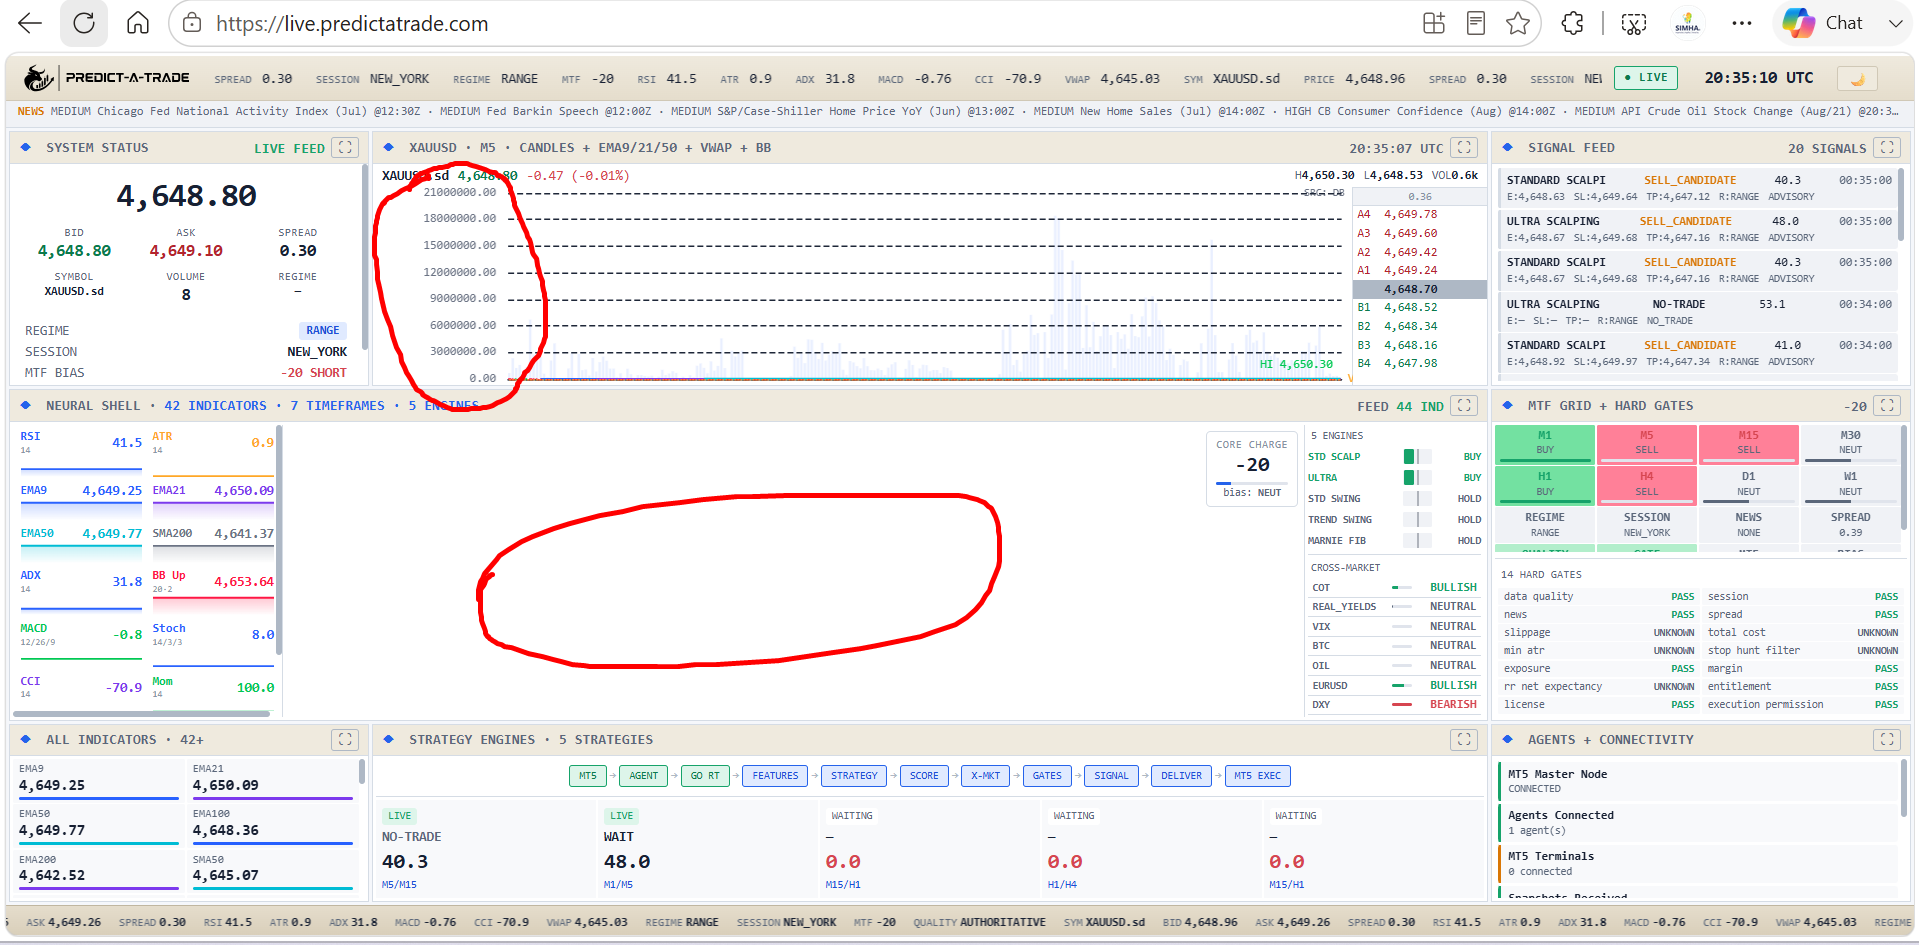
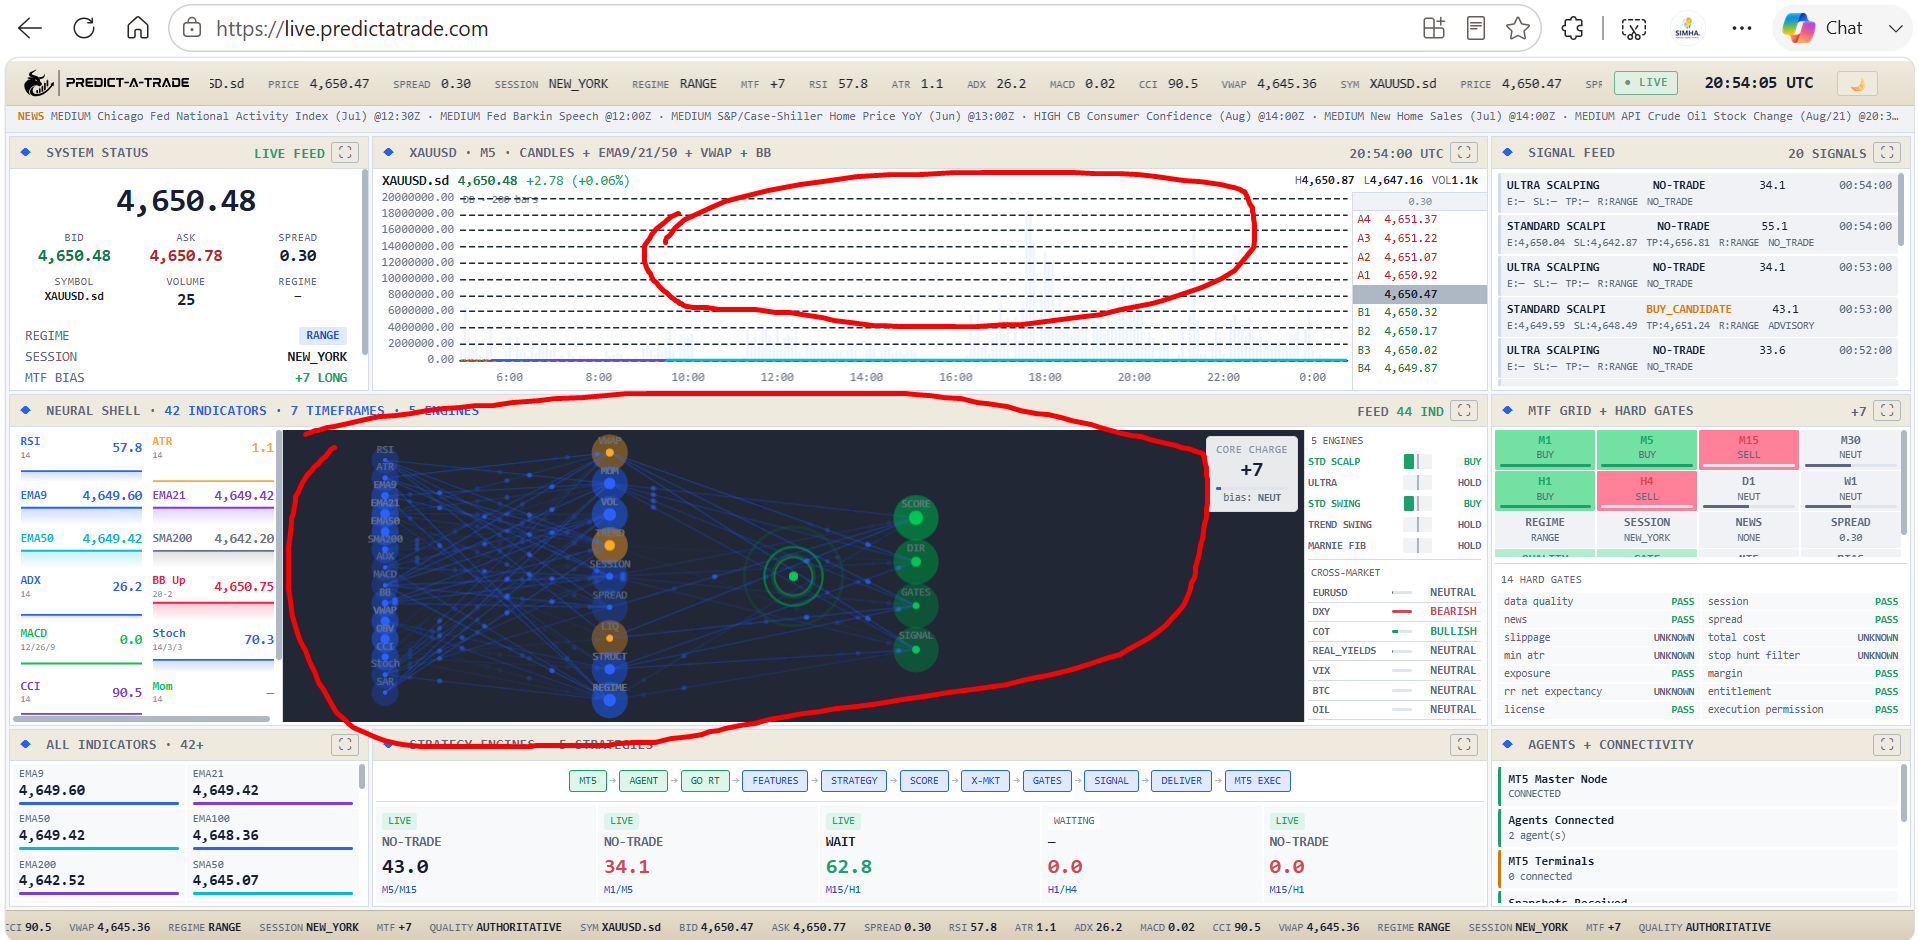
fix: 3 issues — chart expansion, layout, light mode chart bg
ISSUE 1: Top-left panel layout
- Grid columns narrowed (240→220, 280→260) for more chart space
- Chart (p-price) now spans rows 1-2 (double height)
- Neural shell moved to column 1, row 2 only

ISSUE 2: Chart fills empty space
- Removed DOM table (freed 90px width)
- Removed price-header-bar (freed vertical space)
- Price info (sym/price/hi/lo/vol) moved into panel header
- Chart container now fills entire panel body
- Grid left margin: 58→50px

ISSUE 3: Light mode chart dark background
- Grid lines: #1e2738 → rgba(128,128,128,0.15)
- Axis lines: #2a3548 → rgba(128,128,128,0.2)
- Axis labels: #6b7384 → rgba(128,128,128,0.6)
- Tooltip: darker bg with lighter text
- All chart colors now use rgba() which works in both dark and light modes

Service worker cache bumped v19→v20

diff --git a/live-dashboard/index.html b/live-dashboard/index.html
@@ -59,7 +59,7 @@ body.light{background:#f5f7fb;color:#172033}
 #newsStrip .news-label{color:var(--amber);font-weight:700}
 
 /* ═══ MAIN GRID ═══ */
-#main{display:grid;grid-template-columns:240px 1fr 280px;grid-template-rows:minmax(0,1fr) minmax(0,1.3fr) minmax(0,.7fr);gap:2px;padding:2px;overflow:hidden;background:var(--bg)}
+#main{display:grid;grid-template-columns:220px 1fr 260px;grid-template-rows:minmax(0,1.2fr) minmax(0,1.3fr) minmax(0,.6fr);gap:2px;padding:2px;overflow:hidden;background:var(--bg)}
 #modeBanner{grid-row:1}#header{grid-row:2}#newsStrip{grid-row:3}#main{grid-row:4}#footer{grid-row:5}
 
 /* ═══ PANEL ═══ */
@@ -71,9 +71,9 @@ body.light{background:#f5f7fb;color:#172033}
 
 /* ═══ GRID PLACEMENT ═══ */
 .p-account{grid-column:1;grid-row:1}
-.p-price{grid-column:2;grid-row:1}
+.p-price{grid-column:2;grid-row:1/span 2}
 .p-lifecycle{grid-column:3;grid-row:1}
-.p-neural{grid-column:1/span 2;grid-row:2}
+.p-neural{grid-column:1;grid-row:2}
 .p-resolution{grid-column:3;grid-row:2}
 .p-indicators{grid-column:1;grid-row:3}
 .p-engines{grid-column:2;grid-row:3}
@@ -389,18 +389,11 @@ body.light .focus-layer{background:#f5f7fb}
     <!-- PRICE CHART -->
     <section class="panel p-price">
       <div class="panel-head">
-        <span><span class="diamond">◆</span> XAUUSD · <span id="chartTF">M5</span> · CANDLES + EMA9/21/50 + VWAP + BB</span>
-        <span><span id="priceTime">—</span><button class="expand-btn" onclick="toggleExpand('p-price')">⛶</button></span>
+        <span><span class="diamond">◆</span> <span id="plSym">XAUUSD</span> · <span id="chartTF">M5</span> · <span class="pl-price" id="plPrice">—</span> <span class="pl-chg" id="plChg">—</span></span>
+        <span><span style="font-size:7px">H:<b id="plHi">—</b></span> <span style="font-size:7px">L:<b id="plLo">—</b></span> <span style="font-size:7px">VOL:<b id="plVol">—</b></span> <span id="priceTime">—</span><button class="expand-btn" onclick="toggleExpand('p-price')">⛶</button></span>
       </div>
       <div class="panel-body" style="padding:0;display:flex;flex-direction:column;overflow:hidden">
-        <div class="price-header-bar">
-          <div><span class="pl-sym" id="plSym">XAUUSD</span><span class="pl-price" id="plPrice">—</span><span class="pl-chg" id="plChg">—</span></div>
-          <div class="phb-right"><span>H<b id="plHi">—</b></span><span>L<b id="plLo">—</b></span><span>VOL<b id="plVol">—</b></span></div>
-        </div>
-        <div class="chart-ladder-wrap">
-          <div id="priceChart" style="flex:1;min-width:0;min-height:0"></div>
-          <div class="dom-table" id="domTable"></div>
-        </div>
+        <div id="priceChart" style="flex:1;min-width:0;min-height:0;width:100%"></div>
       </div>
     </section>
 
@@ -583,7 +576,7 @@ function computeEMA(data,period){
 
 function priceOption(){
   if(!STATE.candles||!STATE.candles.length){
-    return{animation:false,backgroundColor:'transparent',graphic:[{type:'text',left:'center',top:'middle',style:{text:'Loading chart data...',fill:'#6b7384',font:'11px monospace'}}]};
+    return{animation:false,backgroundColor:'transparent',graphic:[{type:'text',left:'center',top:'middle',style:{text:'Loading chart data...',fill:'rgba(128,128,128,0.5)',font:'11px monospace'}}]};
   }
   var d=STATE.digits;
   var cd=STATE.candles.map(c=>[c.t,c.o,c.c,c.l,c.h]);
@@ -597,11 +590,11 @@ function priceOption(){
   return{
     animation:true,animationDuration:300,animationDurationUpdate:300,animationEasing:'cubicOut',
     backgroundColor:'transparent',
-    grid:{left:58,right:4,top:4,bottom:20,containLabel:false,borderWidth:0},
+    grid:{left:50,right:4,top:4,bottom:20,containLabel:false,borderWidth:0},
     xAxis:{
       type:'time',
-      axisLine:{lineStyle:{color:'#2a3548'}},
-      axisLabel:{color:'#6b7384',fontFamily:'monospace',fontSize:8,
+      axisLine:{lineStyle:{color:'rgba(128,128,128,0.2)'}},
+      axisLabel:{color:'rgba(128,128,128,0.6)',fontFamily:'monospace',fontSize:8,
         formatter:function(v){var dt=new Date(v);return dt.getHours()+':'+String(dt.getMinutes()).padStart(2,'0');}},
       splitLine:{show:false},
       axisTick:{show:false}
@@ -609,8 +602,8 @@ function priceOption(){
     yAxis:{
       scale:true,position:'left',
       axisLine:{show:false},axisTick:{show:false},
-      axisLabel:{color:'#6b7384',fontFamily:'monospace',fontSize:8,formatter:function(v){return v.toFixed(d);},margin:4},
-      splitLine:{show:true,lineStyle:{color:'#1e2738',type:'dashed'}},
+      axisLabel:{color:'rgba(128,128,128,0.6)',fontFamily:'monospace',fontSize:8,formatter:function(v){return v.toFixed(d);},margin:4},
+      splitLine:{show:true,lineStyle:{color:'rgba(128,128,128,0.15)',type:'dashed'}},
       splitNumber:8
     },
     tooltip:{
@@ -645,7 +638,7 @@ function priceOption(){
         STATE.low>0?{coord:[cd[0][0],STATE.low],label:{formatter:'LO '+fmt(STATE.low,d),color:'#ff1744',fontFamily:'monospace',fontSize:8,position:'insideEndBottom'},lineStyle:{color:'#ff1744'}}:[],
       ]
     },
-    graphic:[{type:'text',left:60,top:2,style:{text:(STATE.candleSource||'—')+' · '+STATE.candles.length+' bars',fill:'#6b7384',font:'7px monospace'}}]
+    graphic:[{type:'text',left:60,top:2,style:{text:(STATE.candleSource||'—')+' · '+STATE.candles.length+' bars',fill:'rgba(128,128,128,0.5)',font:'7px monospace'}}]
   };
 }
 

diff --git a/live-dashboard/sw.js b/live-dashboard/sw.js
@@ -1,5 +1,5 @@
 // Predict-A-Trade Service Worker v9
-var CACHE_NAME = 'pat-dashboard-v19';
+var CACHE_NAME = 'pat-dashboard-v20';
 var STATIC_ASSETS = ['/','/index.html','/echarts.min.js','/manifest.json','/favicon.svg','/favicon.ico'];
 self.addEventListener('install',function(e){e.waitUntil(caches.open(CACHE_NAME).then(c=>c.addAll(STATIC_ASSETS.map(u=>new Request(u,{cache:'no-store'}))).catch(()=>{})).then(()=>self.skipWaiting()));});
 self.addEventListener('activate',function(e){e.waitUntil(caches.keys().then(keys=>Promise.all(keys.filter(k=>k!==CACHE_NAME).map(k=>caches.delete(k)))).then(()=>self.clients.claim()));});
